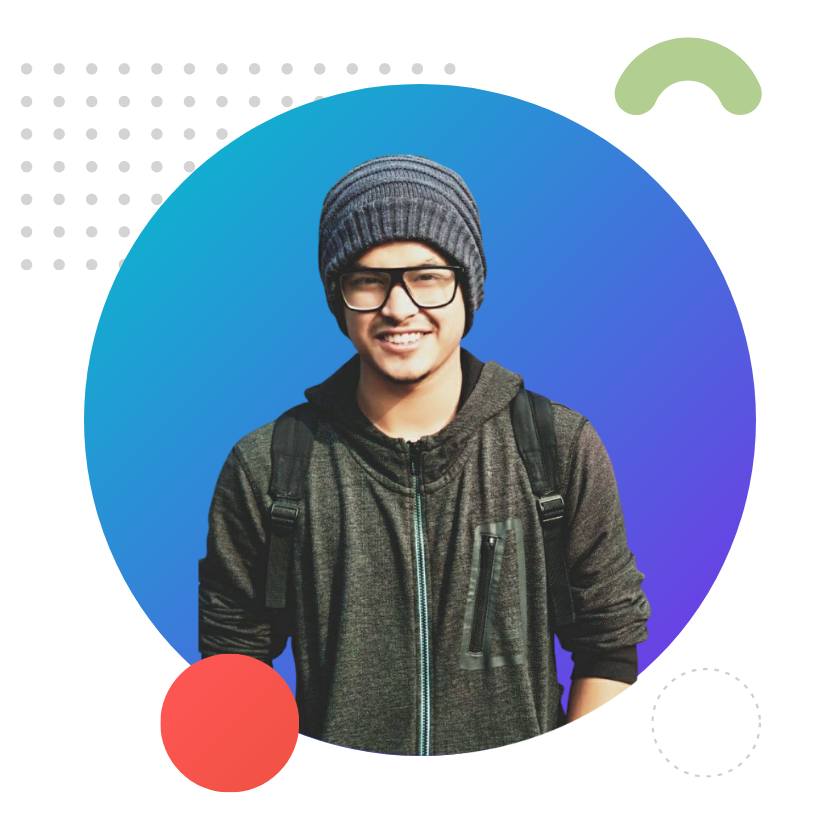
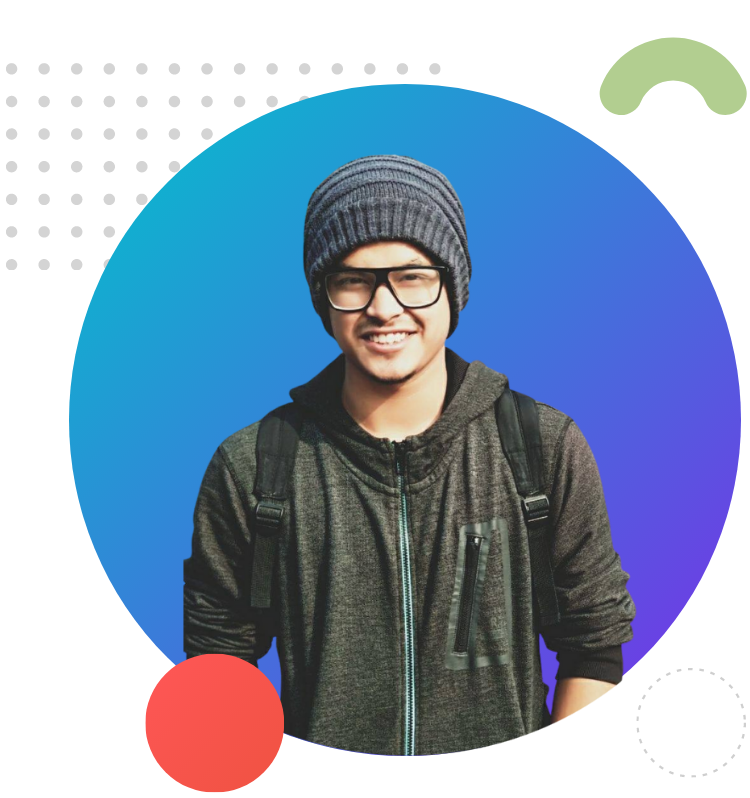
Experience Done

diff --git a/index.html b/index.html
@@ -11,7 +11,7 @@
 <link href="https://fonts.googleapis.com/css2?family=Poppins:wght@200;300;400;700&display=swap" rel="stylesheet">
 </head>
 <body>
-    <section class="top">
+    <section class="top flx">
     <div class="half">
         <div class="head">
     <h1>Welc<span>O</span>me To</h1>
@@ -30,7 +30,7 @@
 </div>
 </section>
 
-<section class="second">
+<section class="second flx">
     <div class="half">
         <img src="images/me2.png" alt="My first pic">
     </div>
@@ -47,6 +47,26 @@
 </div>
     <a class="link-button"href="https://www.linkedin.com/in/showrab-bin-habib-1063521b3/" target="_blank">Download Resume</a>
 </div>
+
+</section>
+
+<h1 class="e">Experience</h1>
+<hr>
+<section class="experience">
+<div class="exp flx">
+<div class="box">
+    <h2>Full Stack Developer</h2>
+    <h3>2021-present | Pro level developer</h3>
+    <p>Lorem ipsum dolor sit amet consectetur adipisicing elit. Voluptatum adipisci laudantium quo consequatur quibusdam in eaque officiis sed beatae temporibus deserunt hic ducimus nobis sint sit ut itaque esse eius, enim tenetur reiciendis quis soluta illum quidem. Iusto, earum veniam fuga iste veritatis quis consequatur impedit maxime vitae accusamus ut!</p>
+
+</div>
+<div class=" box">
+    <h2>Baby Web Developer</h2>
+    <h3>2020-2021 | Junior developer</h3>
+    <p>Lorem ipsum dolor sit amet consectetur adipisicing elit. Voluptatum adipisci laudantium quo consequatur quibusdam in eaque officiis sed beatae temporibus deserunt hic ducimus nobis sint sit ut itaque esse eius, enim tenetur reiciendis quis soluta illum quidem. Iusto, earum veniam fuga iste veritatis quis consequatur imp </p>
+</div>
+</div>
+
 
 </section>
 </body>

diff --git a/style.css b/style.css
@@ -10,7 +10,7 @@ span {
   color: #ffb228;
   font-size: 60px;
 }
-section {
+.flx {
   display: flex;
 }
 .half {
@@ -52,4 +52,44 @@ section {
   text-transform: uppercase;
   text-decoration: none;
   border-radius: 5px;
+}
+.experience h1 {
+  text-align: center;
+}
+.experience {
+  background-image: url(images/exp-bg.png);
+  background-repeat: no-repeat;
+  background-position: left;
+}
+.e {
+  text-align: center;
+}
+.exp {
+  display: flex;
+}
+hr {
+  width: 20%;
+  text-align: center;
+  margin: 30px 40%;
+}
+.box h3 {
+  color: orangered;
+  margin-top: 10px;
+  margin-bottom: 20px;
+}
+.box h1 {
+  font-size: 40px;
+}
+.box {
+  width: 40%;
+  margin-left: 5%;
+  margin-right: 5%;
+  margin-top: 50px;
+  margin-bottom: 100px;
+  padding: 25px;
+  box-shadow: 10px 10px 40px grey;
+  border-radius: 15px;
+  border-left: 10px solid;
+  border-image: linear-gradient(blue, cyan);
+  border-image-slice: 1;
 }
